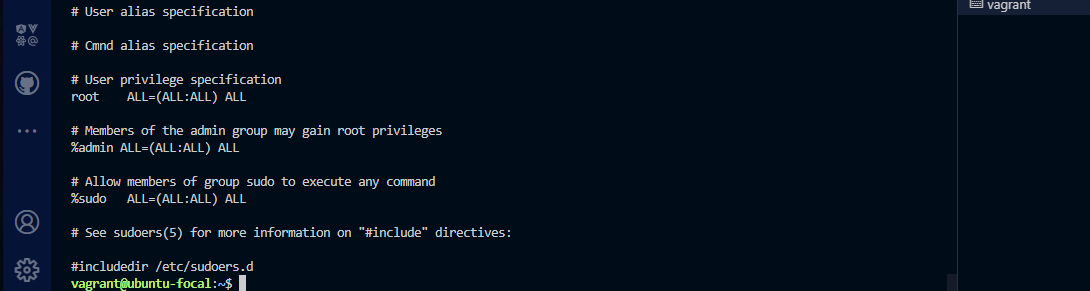
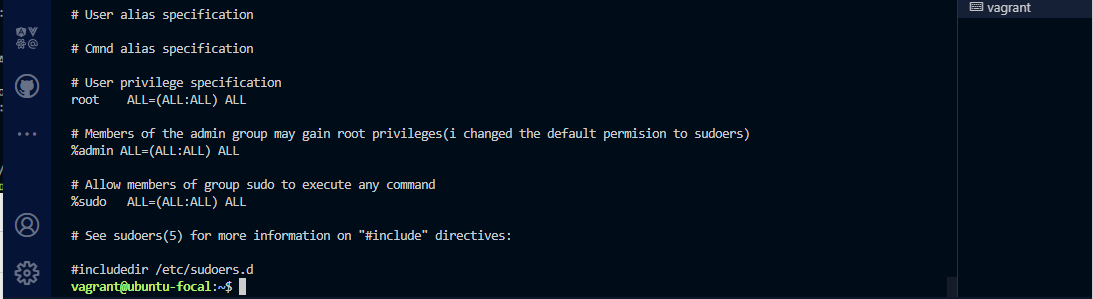
added output screenshots

diff --git a/exercise-3/README.md b/exercise-3/README.md
@@ -11,17 +11,17 @@
 ## 2:   Add The Admin group To  *SUDOERs*
     Command: sudo visudo /etc/sudoers
 
-        *   CHANGE  *
+        *   CHANGE  
                 %admin ALL=(ALL) ALL 
-        *   TO *
+        *   TO 
                 %admin ALL=(ALL:ALL) ALL
 
     *   NB: The Recommended way of adding a USER or GROUP to SUDOERS is:
 
             *   sudo vi -f /etc/sudoers.d/username or groupname
-            *   Now you are in the file, you can set any permission you like for the user or the group. 
+            *   Now you are in the file, you can set any permission for a group or user. 
             for example:    %support ALL=(ALL) ALL (for support group)
-                            for-a-user ALL=(ALL)
+                            user-in-a-group ALL=(ALL)  (for a user-in-a-group)
 
      
         
@@ -32,12 +32,14 @@
     Command: sudo useradd -g groupname -m username
 
 
-        #### NB: i didn't use the * useradd -a -G Admin,Support,Engineering * to a user to all the groups in shot because each group has to have a unique a user and because of group privileges(the Admin-group is added to SUDOERs) 
+        ### NB: i didn't use the * useradd -aG admin,support,engineering username * to a user to all the groups in one shot because each group has to have a unique a user and because of the group permission (the admin-group is added to SUDOERs) 
+        *       -g user in the default group
+        *       -m user in the /home
 
 ## 4:   Generate SSH keys for user in the Admin-group. 
             * switch to the user-in-the-admin-group and ssh-keygen 
     
-    Commmand:   sudo su - username-in-the-admin-group
+    Command:   sudo su - username-in-the-admin-group
                 ssh-keygen
 
 
